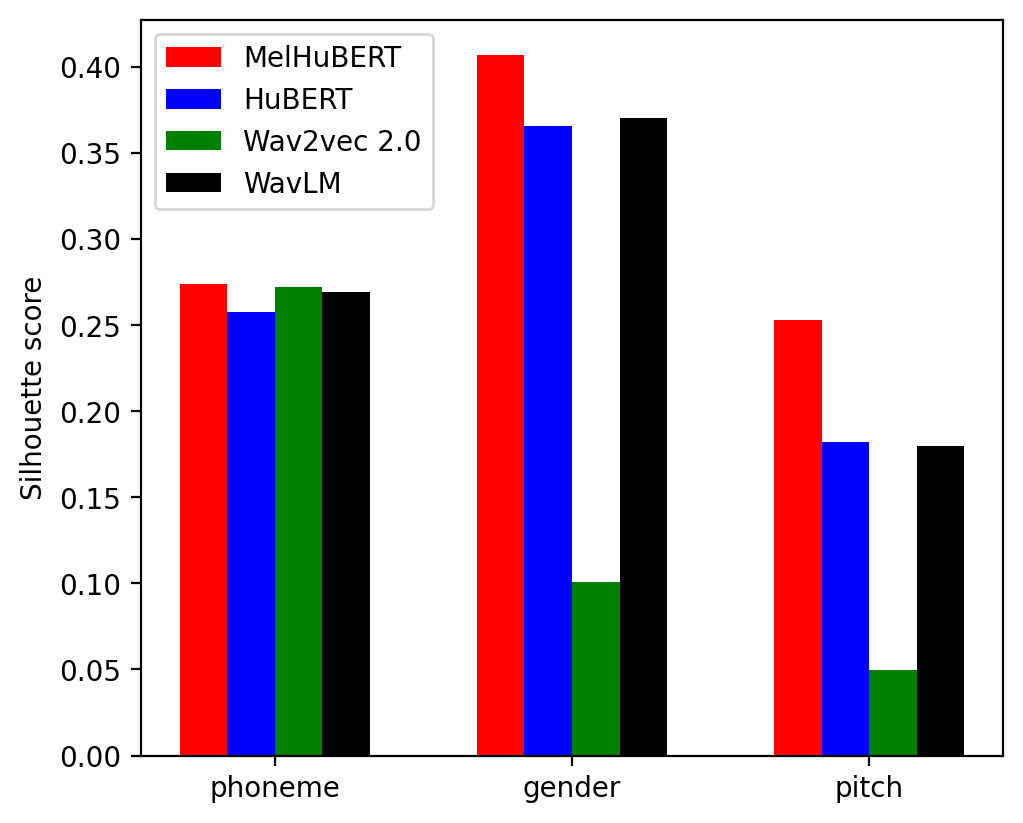
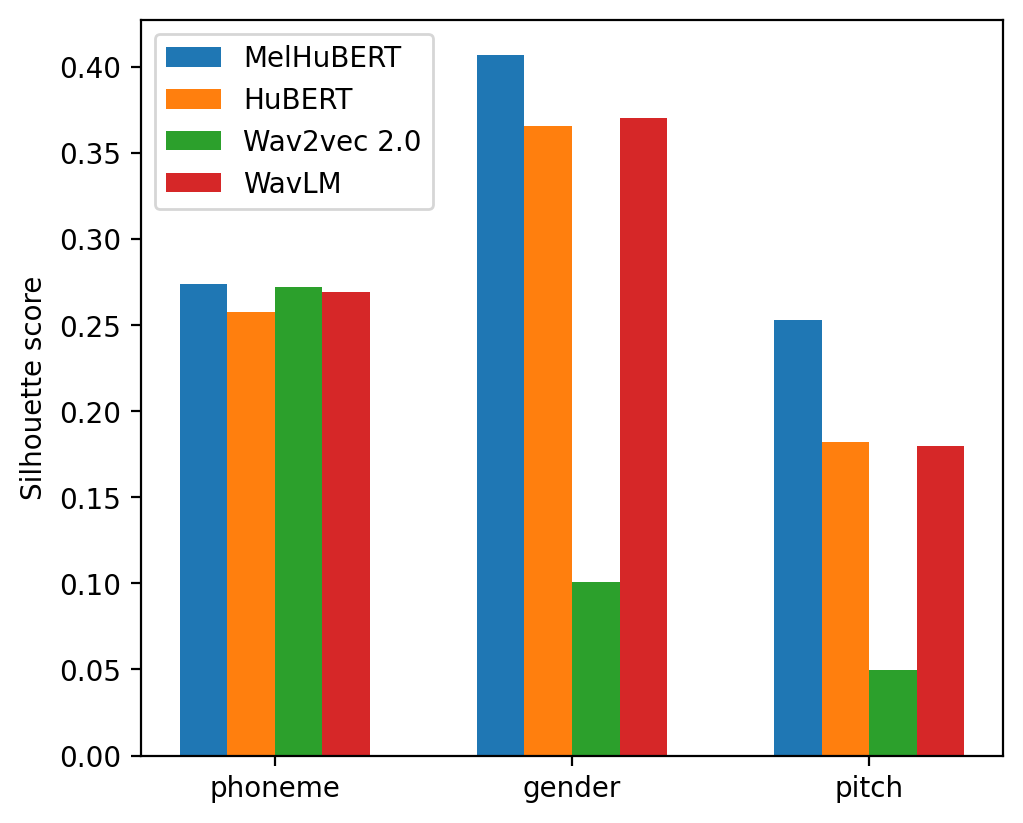
change colors

diff --git a/reproduce_figure/draw.py b/reproduce_figure/draw.py
@@ -17,7 +17,7 @@ def mds_phoneme(phone_name):
         plt.annotate(name, (v_data_2d[idx,0],v_data_2d[idx,1]))
     plt.legend(loc='upper right', fontsize=6)
     plt.axis('off')
-    plt.title(f'Layer 8')
+    # plt.title(f'Layer 8')
     plt.savefig('fig/phone.png', bbox_inches='tight', dpi=200)
     plt.clf()
 
@@ -33,7 +33,7 @@ def mds_gender(phone_name):
         plt.annotate(name, (v_data_2d[n_phone+idx,0],v_data_2d[n_phone+idx,1]))
     plt.legend(loc='upper right', fontsize=6)
     plt.axis('off')
-    plt.title(f'Layer 1')
+    # plt.title(f'Layer 1')
     plt.savefig('fig/gender.png', bbox_inches='tight', dpi=200)
     plt.clf()
 
@@ -50,7 +50,7 @@ def mds_pitch(phone_name):
         plt.annotate(name, (v_data_2d[n_phone*2+idx,0],v_data_2d[n_phone*2+idx,1]))
     plt.legend(loc='upper right', fontsize=6)
     plt.axis('off')
-    plt.title(f'Layer 1')
+    # plt.title(f'Layer 1')
     plt.savefig('fig/pitch.png', bbox_inches='tight', dpi=200)
     plt.clf()
 
@@ -67,7 +67,7 @@ def mds_duration(phone_name):
         plt.annotate(name, (v_data_2d[n_phone*2+idx,0],v_data_2d[n_phone*2+idx,1]))
     plt.legend(loc='upper right', fontsize=6)
     plt.axis('off')
-    plt.title(f'Layer 6')
+    # plt.title(f'Layer 6')
     plt.savefig('fig/duration.png', bbox_inches='tight', dpi=200)
     plt.clf()
 
@@ -81,10 +81,10 @@ def layer_compare():
     with open('data/layer_score.json', 'r') as fp:
         results = json.load(fp)
     color = {
-        'phone-type': 'red',
-        'gender': 'blue',
-        'pitch': 'green',
-        'duration': 'black'
+        'phone-type': 'C0',
+        'gender': 'C1',
+        'pitch': 'C2',
+        'duration': 'C3'
     }
     labels = {
         'phone-type': 'phoneme',
@@ -93,6 +93,8 @@ def layer_compare():
         'duration': 'duration' 
     }
     for k, v in results.items():
+        if k == 'duration':
+            continue
         plt.plot(range(1,13), v, label=labels[k], c=color[k], marker='o')
     plt.xticks(ticks=range(1,13))
     plt.xlabel('Layer')
@@ -106,10 +108,10 @@ def model_compare():
     with open('data/model_score.json', 'r') as fp:
         model_score = json.load(fp)
     color = {
-        'melhubert_base': 'red',
-        'hubert_base': 'blue',
-        'wav2vec2_base': 'green',
-        'wavlm_base': 'black'
+        'melhubert_base': 'C0',
+        'hubert_base': 'C1',
+        'wav2vec2_base': 'C2',
+        'wavlm_base': 'C3'
     }
     label = {
         'melhubert_base': 'MelHuBERT',
@@ -160,90 +162,6 @@ def venn_ps_keys():
     venn = venn3(subsets=set_sizes, set_labels=p_name)
     plt.savefig('fig/venn-ps-keys-layer-1.png', bbox_inches='tight', dpi=200)
 
-# def row_pruning_cmp_n_ps_keys():
-#     properties = ['phone-type', 'gender']
-#     data_type = ['regular', 'all-128', 'all-all']
-#     data_pth = [f'data/{x}-row-pruning-n-ps-keys.json' for x in data_type]
-#     rows = {
-#         'regular': [512, 1024, 1536, 2048, 2560, 2688, 2816, 2944, 3072],
-#         'all-128': [512, 1024, 1536, 2048, 2560, 2688, 2816, 2944, 3072],
-#         'all-all': [598, 3072]
-#     }
-#     # Calculate density 
-#     D = 3072 
-#     density = {}
-#     for k, v in rows.items():
-#         density[k] = [i/D for i in v]
-
-#     datas = {}
-#     for k, pth in zip(data_type, data_pth):
-#         with open(pth, 'r') as fp:
-#             d = json.load(fp)
-#         datas[k] = d
-
-#     colors = {
-#         'regular': 'red', 
-#         'all-128': 'blue', 
-#         'all-all': 'green'
-#     }
-#     labels = {
-#         'regular': 'regular', 
-#         'all-128': 'proposed-128', 
-#         'all-all': 'proposed-all'
-#     }
-
-#     for dt in data_type:
-#         gender_ps = datas[dt]['gender'][::2]
-#         plt.plot(density[dt], gender_ps, color=colors[dt], marker='o', label=labels[dt])
-#         # phone_ps = datas[dt]['phone-type'][::2]
-#         # plt.plot(density[dt], phone_ps, color=colors[dt], marker='o', alpha=0.2)
-#     plt.legend()
-#     plt.xlabel('Density')
-#     plt.ylabel('Num. property-specific keys')
-#     plt.savefig('fig/row-pruning-cmp-n-ps-keys.png', bbox_inches='tight', dpi=200)
-
-# def row_pruning_cmp_score():
-#     properties = ['phone-type', 'gender']
-#     data_type = ['regular', 'all-128', 'all-all']
-#     data_pth = [f'data/{x}-row-pruning-score.json' for x in data_type]
-#     rows = {
-#         'regular': [512, 1024, 1536, 2048, 2560, 2688, 2816, 2944, 3072],
-#         'all-128': [512, 1024, 1536, 2048, 2560, 2688, 2816, 2944, 3072],
-#         'all-all': [598, 3072]
-#     }
-#     # Calculate density 
-#     D = 3072 
-#     density = {}
-#     for k, v in rows.items():
-#         density[k] = [i/D for i in v]
-
-#     datas = {}
-#     for k, pth in zip(data_type, data_pth):
-#         with open(pth, 'r') as fp:
-#             d = json.load(fp)
-#         datas[k] = d
-
-#     colors = {
-#         'regular': 'red', 
-#         'all-128': 'blue', 
-#         'all-all': 'green'
-#     }
-#     labels = {
-#         'regular': 'regular', 
-#         'all-128': 'proposed-128', 
-#         'all-all': 'proposed-all'
-#     }
-
-#     for dt in data_type:
-#         gender_score = datas[dt]['gender'][::2]
-#         plt.plot(density[dt], gender_score, color=colors[dt], marker='o', label=labels[dt])
-#         # phone_score = datas[dt]['phone-type'][::2]
-#         # plt.plot(density[dt], phone_score, color=colors[dt], marker='o', alpha=0.2)
-#     plt.legend()
-#     plt.xlabel('Density')
-#     plt.ylabel('Silhouette score')
-#     plt.savefig('fig/row-pruning-cmp-score.png', bbox_inches='tight', dpi=200)
-
 def row_pruning_regular_n_ps_keys():
     properties = ['phone-type', 'gender', 'pitch', 'duration']
     data_pth = 'data/regular-row-pruning-n-ps-keys.json'
@@ -280,7 +198,7 @@ def row_pruning_regular_n_ps_keys():
 
 def row_pruning_pr():
     # methods = ['regular', 'proposed-128', 'proposed-all']
-    methods = ['regular', 'proposed-all']
+    methods = ['regular', 'proposed']
     per = {
         'regular': [14.08, 9.89, 8.82, 8.92, 8.72, 8.17],
         'proposed-128': [],
@@ -357,14 +275,13 @@ def row_pruning_sid():
 def match_prob():
     v_data = np.load('data/match_prob.npy')
     n_dim = v_data.shape[-1]
-    n_phone = 3
     random_baseline = round(3072*0.01)/3072
-    phone_name = ['AH', 'F', 'UH']
-    fig, axs = plt.subplots(1, n_phone, figsize=(10,4))
-    for i in range(n_phone):
-        axs[i].bar(range(n_dim), v_data[i])
-        axs[i].title.set_text(phone_name[i])
-        axs[i].axhline(y=random_baseline, color='r', linestyle='-', linewidth=1)
+    phone_name = ['AH']
+    plt.bar(range(n_dim), v_data[0])
+    plt.xlabel('Neurons')
+    plt.ylabel('Matching Probability (%)')
+    plt.axhline(y=random_baseline, color='r', linestyle='-', linewidth=1)
+    plt.text(x=2600, y=random_baseline+0.011, s='random baseline', color='r', ha='center', fontsize=12)
     plt.savefig('fig/match_prob.png', bbox_inches='tight', dpi=200)
 
 def generate_colors(N):
